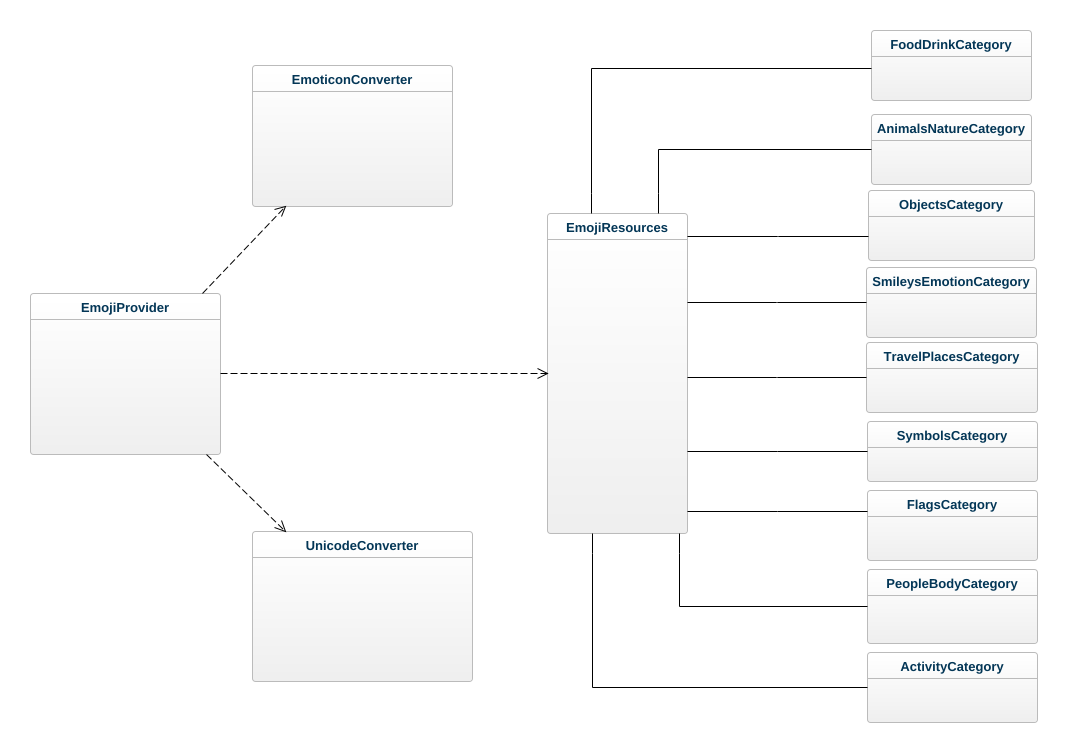
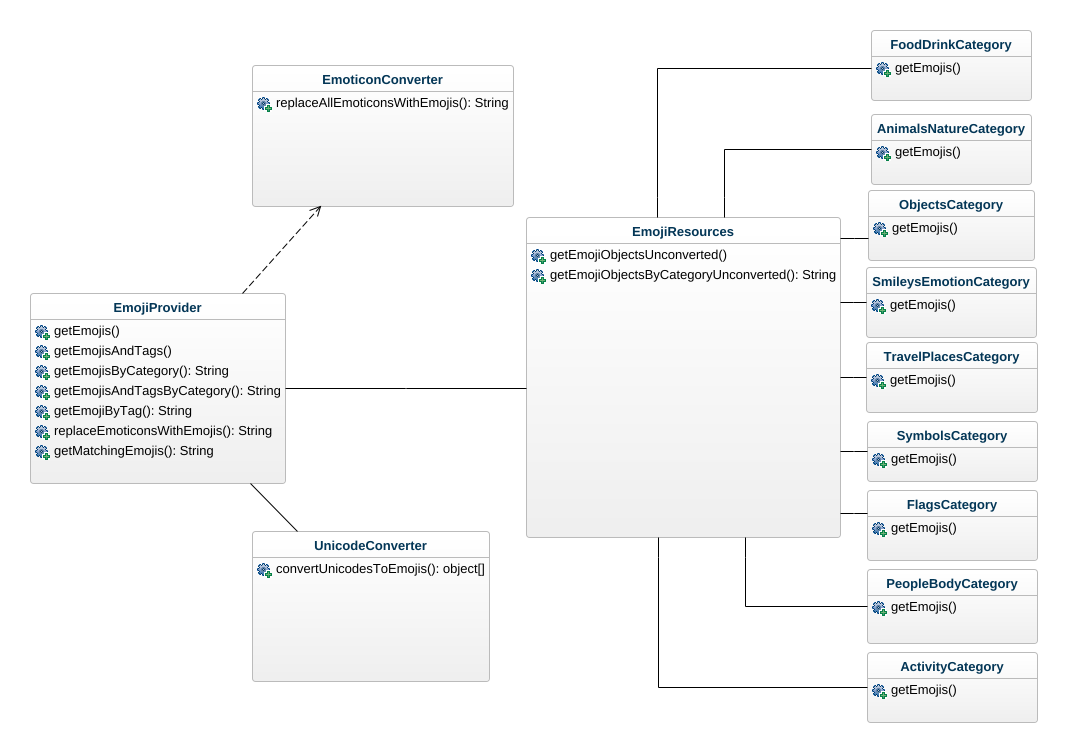
Add updated class diagram

diff --git a/release/release.md b/release/release.md
@@ -27,7 +27,17 @@ Förtydligande: Examinator kommer sätta betyg oberoende på vad ni anser.
 Beskriv hur du anpassat din kod och instruktioner för att någon annan programmerare skall kunna använda din modul. Om du skrivit instruktioner för din användare, länka till dessa. Om inte, beskriv här hur någon skall göra för att använda din modul.
 
 # Beskrivning av min kod
-Beskriv din kod på en hög abstraktionsnivå. En kort beskrivning av dina viktigaste klasser och metoder. Skapa gärna ett klassdiagram som bild. Använd det ni lärt er så här långt i 1dv607. Kommunicera så att jag kan förstå.
+Nedan följer en kort beskrivning av de klasser som ingår i modulen samt ett enkelt klassdiagram som ger en översikt. Modulen består av 13 klasser.
+
+Klassen ```EmojiProvider``` innehåller alla metoder som tillhör det publika interfacet och är själva knutpunkten för modulen. 
+
+Klassen ```UnicodeConverter``` hanterar konvertering av unicodes till emojis.
+
+Klassen ```EmoticonConverter``` hanterar konvertering av emoticons till emojis.
+
+Klassen ```EmojiResources``` har en association till alla klasser av emojis. I EmojiResources fogas emojis samman till en enda array. Antingen allihopa eller endast ett urval baserat på efterfrågad kategori.
+
+Alla emoji-kategorier har fått en egen klass (se namn på klasserna i klassdiagrammet nedan). Varje klass har som enda uppgift att returnera en kopia av en array av emojiobjekt.
 
 ![Class diagram](./images/class-diagram.png "Class diagram")
 
